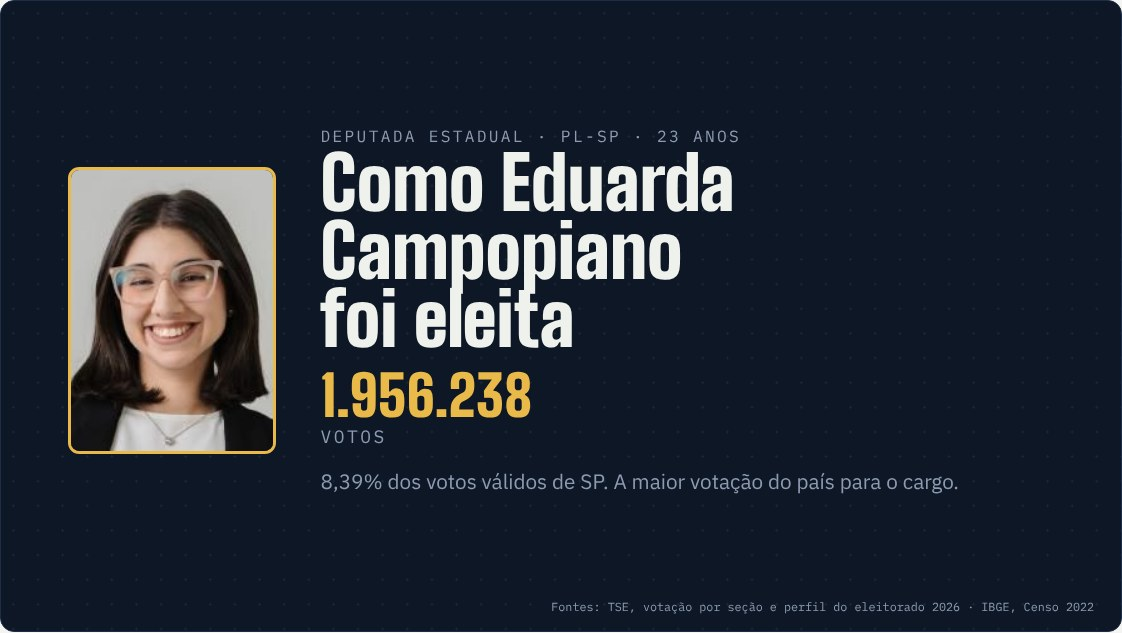
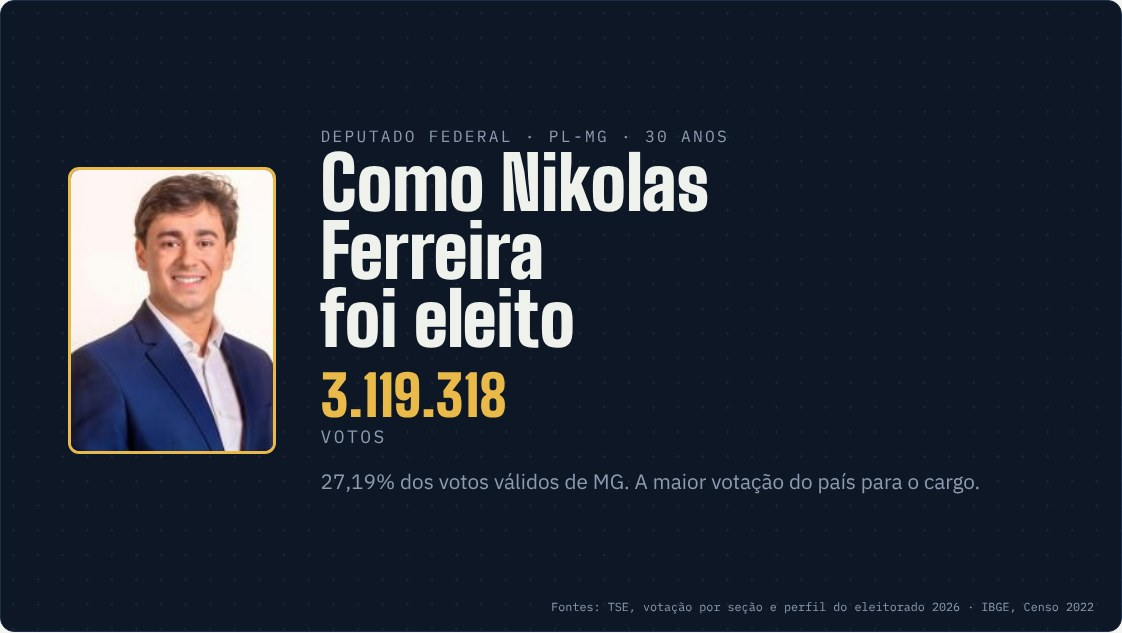
Como foram eleitos: Nikolas Ferreira em destaque na abertura e na home
Claude-Session: https://claude.ai/code/session_01FziymvyAz8Co8rNCGqycBs

diff --git a/index.html b/index.html
@@ -133,7 +133,7 @@
         <!-- Como foram eleitos — 2026-10-09 -->
         <div class="dashboard-item" style="display:flex;flex-direction:column;justify-content:space-between;height:100%;">
           <div>
-            <img src="como-foram-eleitos/cover.jpg" alt="How they got elected — 2026 vote map" style="display:block;width:100%;height:140px;object-fit:cover;object-position:left center;border-radius:6px;margin-bottom:12px;border:1px solid rgba(0,0,0,0.08)" loading="lazy"/>
+            <img src="como-foram-eleitos/cover.jpg" alt="How they got elected — Nikolas Ferreira, most-voted federal deputy of 2026" style="display:block;width:100%;height:140px;object-fit:cover;object-position:left center;border-radius:6px;margin-bottom:12px;border:1px solid rgba(0,0,0,0.08)" loading="lazy"/>
             <h3>How they got elected <span class="badge-new" aria-label="New">NEW</span></h3>
             <p>The 30 most-voted candidates of Brazil's 2026 election for state deputy, federal deputy and senator, counted ballot box by ballot box: an animated story for each, a polling-place map, voter profiles (TSE) and Census data (IBGE).</p>
           </div>

diff --git a/index_en.html b/index_en.html
@@ -132,7 +132,7 @@
         <!-- Como foram eleitos — 2026-10-09 -->
         <div class="dashboard-item" style="display:flex;flex-direction:column;justify-content:space-between;height:100%;">
           <div>
-            <img src="como-foram-eleitos/cover.jpg" alt="How they got elected — 2026 vote map" style="display:block;width:100%;height:140px;object-fit:cover;object-position:left center;border-radius:6px;margin-bottom:12px;border:1px solid rgba(0,0,0,0.08)" loading="lazy"/>
+            <img src="como-foram-eleitos/cover.jpg" alt="How they got elected — Nikolas Ferreira, most-voted federal deputy of 2026" style="display:block;width:100%;height:140px;object-fit:cover;object-position:left center;border-radius:6px;margin-bottom:12px;border:1px solid rgba(0,0,0,0.08)" loading="lazy"/>
             <h3>How they got elected <span class="badge-new" aria-label="New">NEW</span></h3>
             <p>The 30 most-voted candidates of Brazil's 2026 election for state deputy, federal deputy and senator, counted ballot box by ballot box: an animated story for each, a polling-place map, voter profiles (TSE) and Census data (IBGE).</p>
           </div>

diff --git a/index_pt.html b/index_pt.html
@@ -134,7 +134,7 @@
         <!-- Como foram eleitos — 2026-10-09 -->
         <div class="dashboard-item" style="display:flex;flex-direction:column;justify-content:space-between;height:100%;">
           <div>
-            <img src="como-foram-eleitos/cover.jpg" alt="Como foram eleitos — mapa da votação de 2026" style="display:block;width:100%;height:140px;object-fit:cover;object-position:left center;border-radius:6px;margin-bottom:12px;border:1px solid rgba(0,0,0,0.08)" loading="lazy"/>
+            <img src="como-foram-eleitos/cover.jpg" alt="Como foram eleitos — Nikolas Ferreira, o deputado federal mais votado de 2026" style="display:block;width:100%;height:140px;object-fit:cover;object-position:left center;border-radius:6px;margin-bottom:12px;border:1px solid rgba(0,0,0,0.08)" loading="lazy"/>
             <h3>Como foram eleitos <span class="badge-new" aria-label="Novo">NEW</span></h3>
             <p>Os 30 mais votados de 2026 para deputado estadual, deputado federal e senador, contados urna por urna: animação de cada um, mapa por escola, perfil do eleitor (TSE) e retrato do Censo (IBGE).</p>
           </div>

diff --git a/como-foram-eleitos/index.html b/como-foram-eleitos/index.html
@@ -367,7 +367,7 @@ function fillSel(id){const sel=$('sel');sel.innerHTML='';D.core.C.filter(c=>c.li
 document.querySelectorAll('.lists button').forEach(b=>b.addEventListener('click',()=>{LIST=b.dataset.l;const first=D.core.C.find(c=>c.lista===LIST&&+c.rank===1);fillSel(first.id);setup(first.id)}));
 $('sel').addEventListener('change',e=>setup(e.target.value));
 (async()=>{try{[D.core,D.malhas,D.mun]=await Promise.all([getJSON('data/core.json'),getJSON('data/malhas.json'),getJSON('data/municipios.json')]);
-  const h=location.hash.slice(1);const start=D.core.C.find(c=>c.id===h)||D.core.C.find(c=>c.id==='est-SP-22011');LIST=start.lista;fillSel(start.id);await setup(start.id);requestAnimationFrame(tick)}
+  const h=location.hash.slice(1);const start=D.core.C.find(c=>c.id===h)||D.core.C.find(c=>c.id==='fed-MG-2222');LIST=start.lista;fillSel(start.id);await setup(start.id);requestAnimationFrame(tick)}
   catch(e){$('ti-h').textContent='Não foi possível carregar os dados.';$('t-title').classList.add('on');$('t-title').style.opacity=1}})();
 </script>
 
